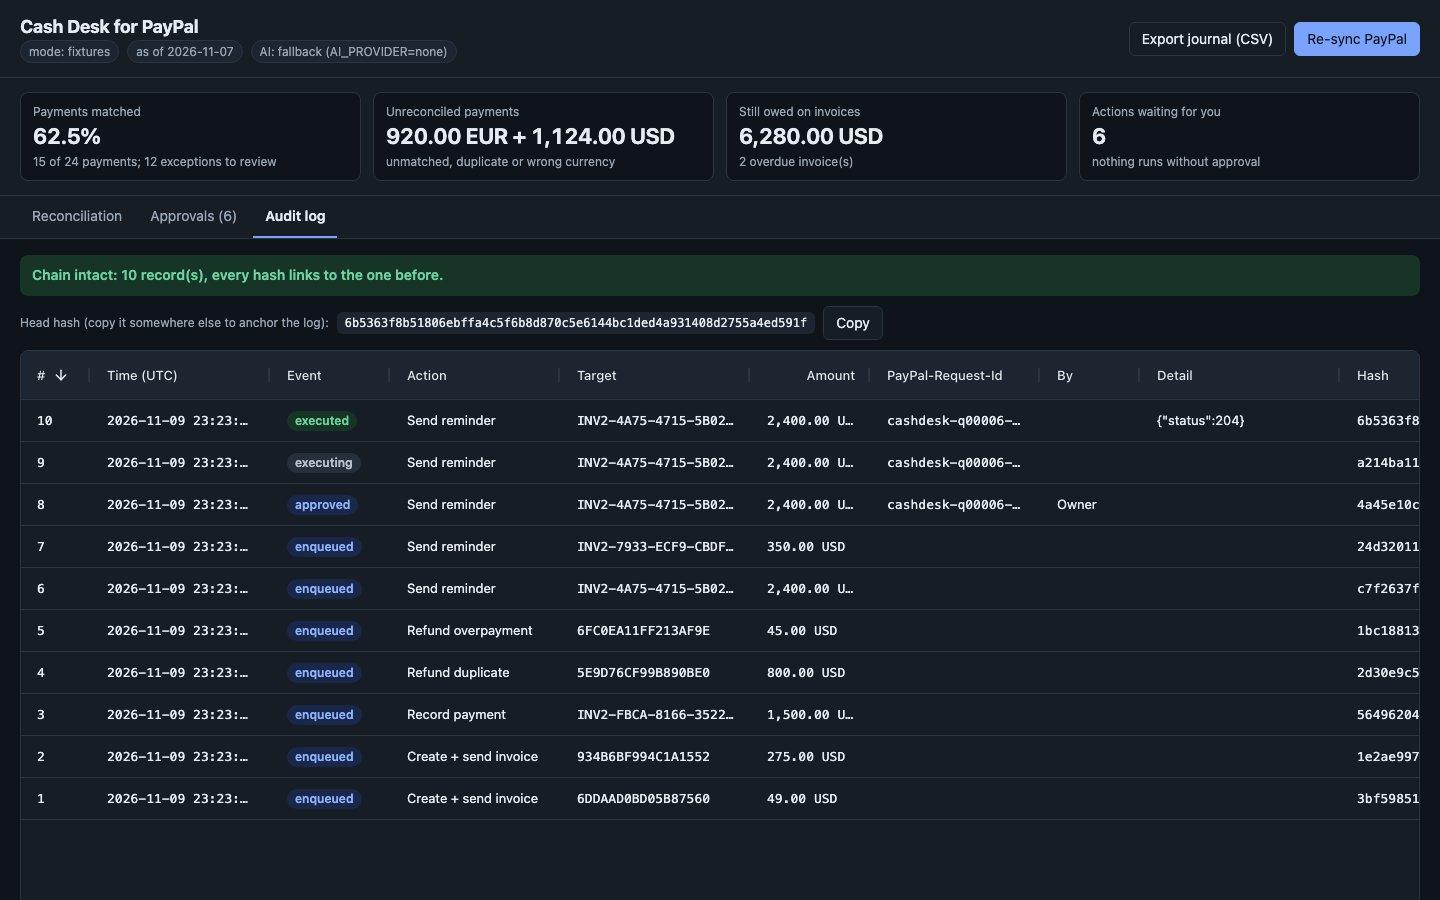
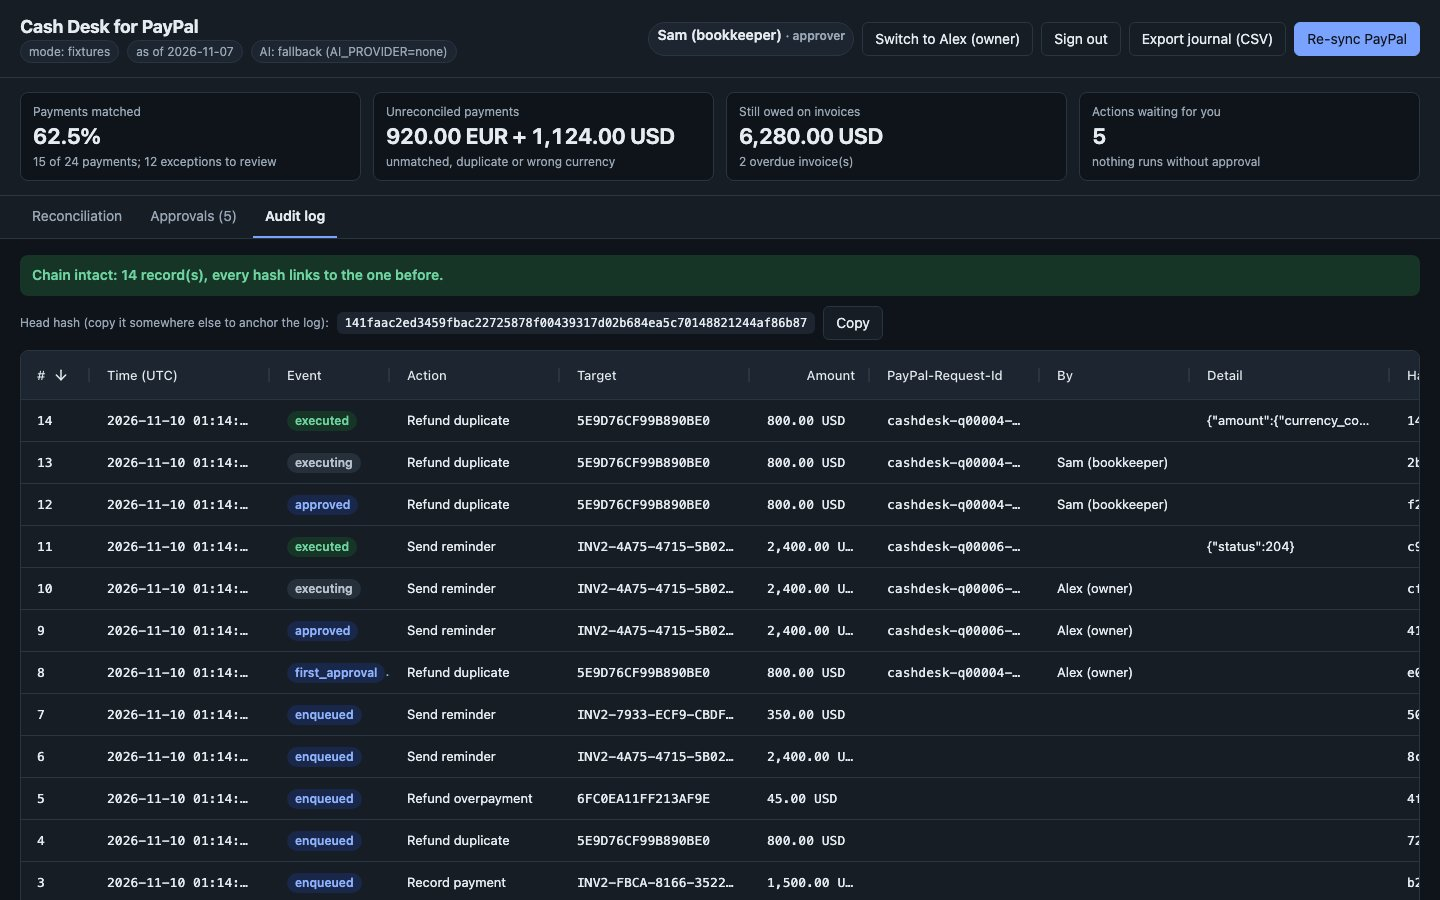
Screenshots with sign-in: Alex's first approval, Sam's second
Re-shot with tools/screenshots.py on a fresh sample-data board: the new
b1-sign-in.jpg (one-click demo approvers and the password form), the board
signed in as Alex, the approval queue, the 800.00 refund's second-approval
dialog with Sam approving after Alex (b3-approve-dialog.jpg), and the audit
log naming both. README links the sign-in shot.

diff --git a/README.md b/README.md
@@ -330,7 +330,7 @@ tests/               pytest suite
 render.yaml          the hosted demo's Render settings (free plan, sample data, no keys)
 ```
 
-More screenshots: [approvals](docs/screenshots/b3-approvals-grid.jpg) ·
+More screenshots: [sign-in](docs/screenshots/b1-sign-in.jpg) · [approvals](docs/screenshots/b3-approvals-grid.jpg) ·
 [audit + summary](docs/screenshots/b4-audit-and-summary.jpg) ·
 [light mode](docs/screenshots/b5-light-1280.jpg)
 
